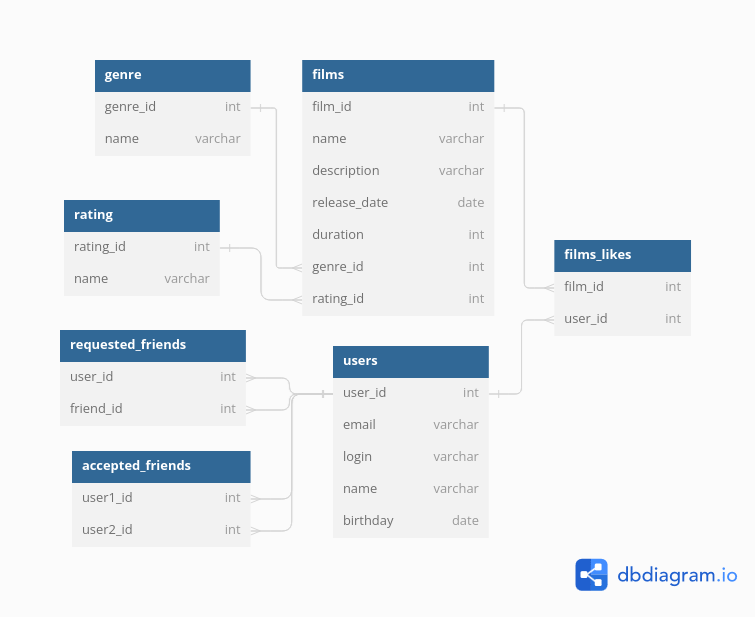
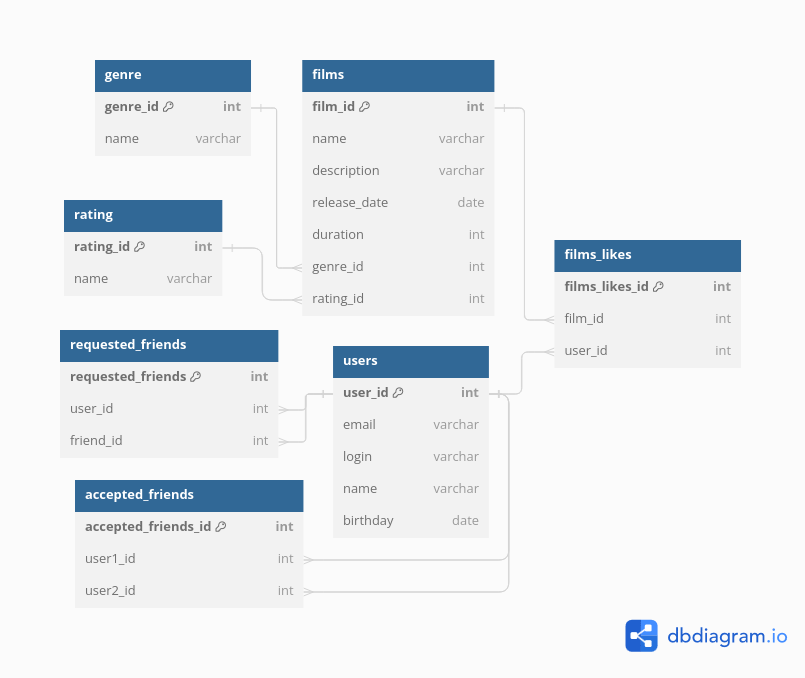
feat: add request examples in README.md, correct DBDiagram

diff --git a/README.md b/README.md
@@ -37,10 +37,11 @@
 
 **films_likes**  
 Аккумулирует список идентификаторов фильмов и идентификаторов пользователей поставивших данному фильму лайк.  
-Таблица включает только составной ключ:
+Таблица включает:
 
-* первичный ключ film_id (ссылается на таблицу films) — идентификатор фильма.
-* первичный ключ user_id (ссылается на таблицу users) — идентификатор пользователя.
+* первичный ключ films_likes_id - суррогатный ключ
+* внешний ключ film_id (ссылается на таблицу films) — идентификатор фильма.
+* внешний ключ user_id (ссылается на таблицу users) — идентификатор пользователя.
 
 Хранение пользователей организовано тремя таблицами:  
 
@@ -58,16 +59,120 @@
 
 **requested_friends**  
 Аккумулирует список пар идентификаторов пользователей в котором один отправил приглашение в друзья другому.  
-Таблица включает только составной ключ:
+Таблица включает:
 
-* первичный ключ user_id (ссылается на таблицу users) — идентификатор пользователя который отправил запрос на дружбу.
-* первичный ключ friend_id (ссылается на таблицу users) — идентификатор пользователя кому направлен запрос на дружбу.
+* первичный ключ requested_friends_id - суррогатный ключ
+* внешний ключ user_id (ссылается на таблицу users) — идентификатор пользователя который отправил запрос на дружбу.
+* внешний ключ friend_id (ссылается на таблицу users) — идентификатор пользователя кому направлен запрос на дружбу.
 
 **accepted_friends**  
 Аккумулирует список пар идентификаторов пользователей которые являются друзьями.  
-Таблица включает только составной ключ:
+Таблица включает:
 
-* первичный ключ user1_id (ссылается на таблицу users) — идентификатор первого пользователя.
-* первичный ключ user2_id (ссылается на таблицу users) — идентификатор второго пользователя.
+* первичный ключ accepted_friends_id - суррогатный ключ
+* внешний ключ user1_id (ссылается на таблицу users) — идентификатор первого пользователя.
+* внешний ключ user2_id (ссылается на таблицу users) — идентификатор второго пользователя.
 
+## Примеры запросов  
+Интерфейс FilmStorage предусматривает 2 метода получения данных  
+
+----
+### *getFilmById(Integer id)*
+Получение фильма по id  
+
+Основные данные для модели фильма:
+
+    SELECT *
+    FROM films
+    WHERE film_id = {id}
+    LEFT JOIN genre ON genre.genre_id = films.genre_id
+    LEFT JOIN rating ON rating.rating_id = films.rating_id
+
+Список пользователей лайкнувших фильм:
+
+    SELECT user_id
+    FROM films_likes
+    WHERE film_id = {id}
+
+### *getAllFilms()*
+Получение всех фильмов должно пройти в 3 этапа  
+
+    SELECT *
+    FROM films
+    LEFT JOIN genre ON genre.genre_id = films.genre_id
+    LEFT JOIN rating ON rating.rating_id = films.rating_id
+
+Получение списка фильмов у которых есть лайки
+
+    SELECT DISTINCT film_id
+    FROM films_likes
+
+По каждому фильму из списка фильмов с лайками выгрузка списка пользователей которые его лайкнули:
+
+    SELECT user_id
+    FROM films_likes
+    WHERE film_id = {current_id}
+----
+Интерфейс UserStorage предусматривает 2 метода получения данных:
+
+### *getUserById(Integer id)*
+Получение пользователя по id
+
+Основные данные для модели пользователя:
+
+    SELECT *
+    FROM users
+    WHERE user_id = {id}
+
+Получение списка подтвержденных друзей:
+
+    SELECT user2_id
+    FROM accepted_friends
+    WHERE user1_id = {id}
+    UNION
+    SELECT user1_id
+    FROM accepted_friends
+    WHERE user2_id = {id}
+
+Получение списка запрошенных, но не подтвержденных друзей
+
+    SELECT friend_id
+    FROM requested_friends
+    WHERE user_id = {id}
+
+### *getAllUsers()*
+Получение всех пользователей
+
+    SELECT *
+    FROM users
+
+Получение списка пользователей у которых есть подтвержденные друзья:
+    
+    SELECT DISTINCT user_id
+    FROM (SELECT user2_id AS user_id
+    FROM accepted_friends
+    UNION
+    SELECT user1_id AS user_id
+    FROM accepted_friends)
+
+Получение списка подтвержденных друзей для каждого найденного пользователя:
+
+    SELECT user2_id
+    FROM accepted_friends
+    WHERE user1_id = {id}
+    UNION
+    SELECT user1_id
+    FROM accepted_friends
+    WHERE user2_id = {id}
+
+Получение списка пользователей у которых есть запрошенные друзья:
+    
+    SELECT DISTINCT user_id
+    FROM requested_friends
+
+Получение списка запрошенных, но не подтвержденных друзей
+
+    SELECT friend_id
+    FROM requested_friends
+    WHERE user_id = {id}
 
